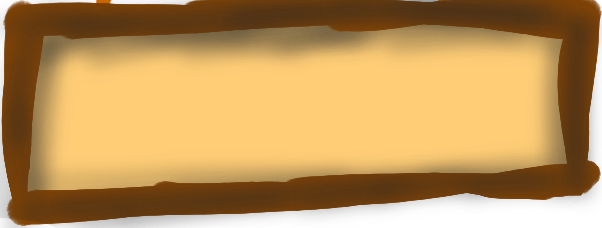
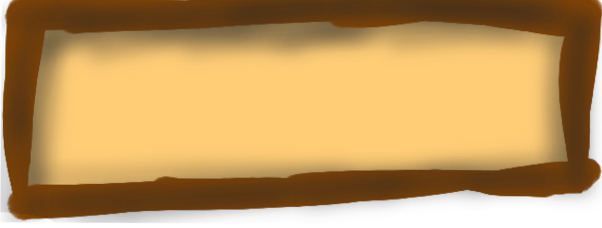
Change ReturnButton size

diff --git a/Components/Shared/ReturnButton.razor.css b/Components/Shared/ReturnButton.razor.css
@@ -4,7 +4,7 @@ div.return-button {
     top: 0;
     
     width: 8rem;
-    height: 4rem;
+    height: 6rem;
 }
 
 div.return-button__left {
@@ -18,13 +18,13 @@ div.return-button__right {
 
 .return-button__top {
     width: 100%;
-    height: 2rem;
+    height: 1.5rem;
 }
 
 div.return-button__bottom {
     background-image: url("buttons/return-button-bottom.png");
     background-size: cover;
-    height: 3rem;
+    height: 5rem;
     
     text-align: center;
     display: flex;
